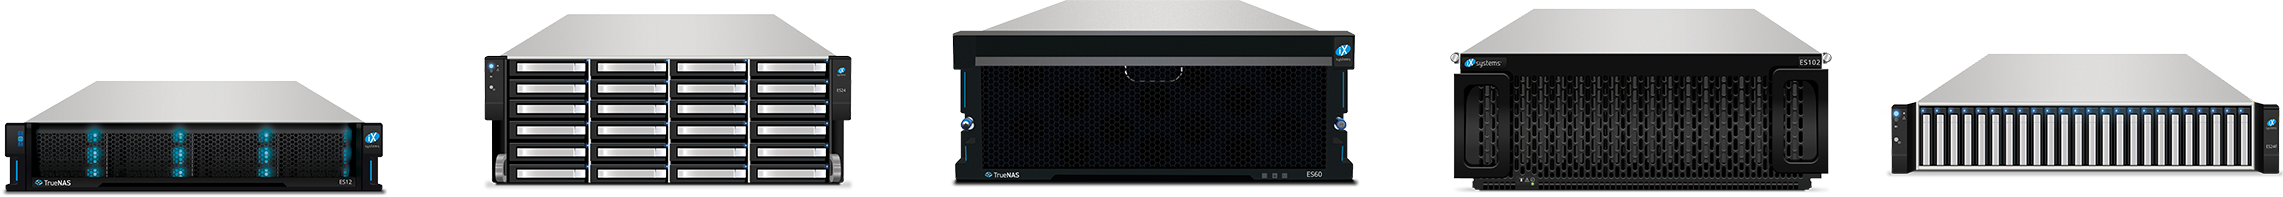
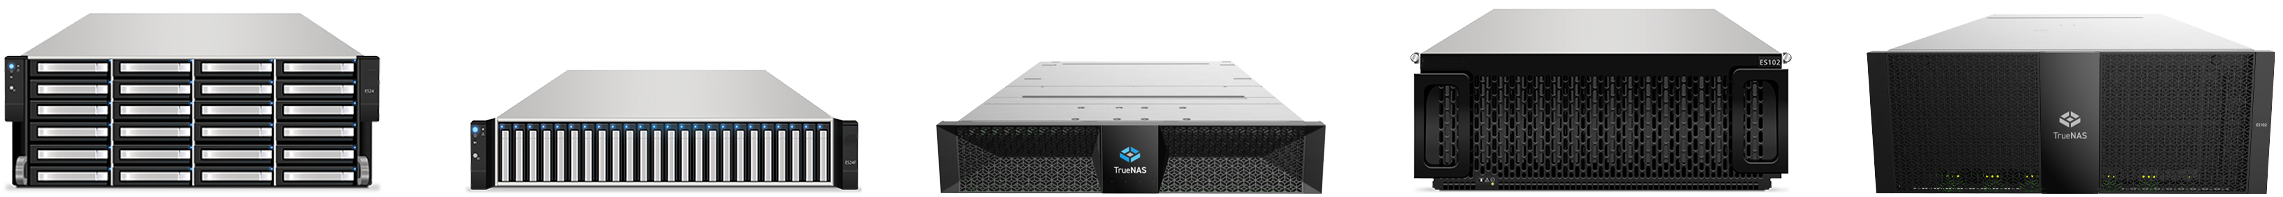
Hardware Section Updates (#3717)
* Update ExpansionShelves.md

* Update ExpansionShelvesFront.png

* Update ExpansionShelves.md

* Update ExpansionShelves.md

* image update

* Update RSeries.md

* Update _index.md

* Update words-to-ignore.txt

---------

diff --git a/content/Hardware/ExpansionShelves.md b/content/Hardware/ExpansionShelves.md
@@ -9,7 +9,7 @@ aliases:
  - /hardware/expansionshelves/es102bsg/
  - /hardware/expansionshelves/sasconnections/
  - /hardware/expansionshelves/
-description: "TrueNAS platform expansion shelves to customize your NAS data storage systems and scale out drive capacity from 12 to 102 drives."
+description: "TrueNAS platform expansion shelves to customize your NAS data storage systems and scale out drive capacity from 24 to 102 drives."
 keyword:
  - enterprise storage solution
  - scalable storage systems
@@ -21,29 +21,32 @@ keyword:
 <br>
 
 {{< prodintro banner="ExpansionShelves/ExpansionShelvesFront.png" bannerhover="Expansion Shelves"
-icon1="IconTrueNAS.png" cell1title="Wide Range of Capacity Options" cell1text="12 to 102 drive capacity. Multiple form factors."
+icon1="IconTrueNAS.png" cell1title="Wide Range of Capacity Options" cell1text="24 to 102 drive capacity. Multiple form factors."
 icon2="IconGraph.png" cell2title="Seamless Scaling" cell2text="Add storage to your datacenter without hassle or downtime."
 icon3="IconHA.png" cell3title="Dual Controller" cell3text="Highly available storage expansion."
 icon4="IconEnterprise.png" cell4title="Meets any Expansion Requirements" cell4text="Whether you need a few drives or hundreds, TrueNAS Enterprise products offer customizable solutions to fit any of your storage requirements." >}}
 
-## General Resources
+## ES24 Resources
 
 <div class="docs-sections">
 
 {{< imagecard image="/images/Hardware/ExpansionShelves/ES24BSG.png" title="ES24 Basic Setup Guide" link="https://www.truenas.com/docs/files/ES24BSG1.12.pdf"
 descr="Deployment guide for TrueNAS ES24 Expansion Shelf." >}}
 
+{{< imagecard image="/images/Hardware/ExpansionShelves/ES24Stencil.png" title="ES24 Hardware Stencils" link="https://www.truenas.com/docs/files/es24_stencil_pack.vssx"
+descr="Download ES24 Expansion Shelf stencils to diagram your TrueNAS hardware configuration." >}}
+
+</div>
+
+## ES24F Resources
+
+<div class="docs-sections">
+
 {{< imagecard image="/images/Hardware/ExpansionShelves/ES24FBSG.png" title="ES24F Basic Setup Guide" link="https://www.truenas.com/docs/files/ES24FBSG1.2.pdf"
 descr="Deployment guide for TrueNAS ES24F Expansion Shelf." >}}
 
-{{< imagecard image="/images/Hardware/ExpansionShelves/ES102BSG.png" title="ES102 Basic Setup Guide" link="https://www.truenas.com/docs/files/ES102BSG1.1.pdf"
-descr="Deployment guide for TrueNAS ES102 Expansion Shelf." >}}
-
-{{< imagecard image="/images/Hardware/ExpansionShelves/SASConnections.png" title="SAS Connections Guide" link="https://www.truenas.com/docs/files/SASConnections1.3.pdf"
-descr="Reference diagrams for SAS cabling between TrueNAS systems and Expansion Shelves." >}}
-
-{{< imagecard image="/images/Hardware/ExpansionShelves/ExpansionStencil.png" title="Hardware Stencils" link="https://www.truenas.com/docs/files/truenasesmodels.vssx"
-descr="Download ES12, ES24/F, ES60, and ES102 Expansion Shelf stencils to diagram your TrueNAS hardware configuration." >}}
+{{< imagecard image="/images/Hardware/ExpansionShelves/ES24FStencil.png" title="ES24F Hardware Stencils" link="https://www.truenas.com/docs/files/es24f_stencil_pack.vssx"
+descr="Download ES24F Expansion Shelf stencils to diagram your TrueNAS hardware configuration." >}}
 
 </div>
 
@@ -57,7 +60,7 @@ descr="Comprehensive User Manual for the TrueNAS ES24N." >}}
 {{< imagecard image="/images/Hardware/ExpansionShelves/ES24NConnection.png" title="Connect ES24N to TrueNAS F-Series" link="https://www.truenas.com/docs/files/ConnectES24NtoFSeries.pdf"
 descr="Guide for connecting the ES24N to a TrueNAS F-Series." >}}
 
-{{< imagecard image="/images/Hardware/ExpansionShelves/ES24NStencil.png" title="ES24N Hardware Stencils" link="https://www.truenas.com/docs/files/es24nstencil.vssx"
+{{< imagecard image="/images/Hardware/ExpansionShelves/ES24NStencil.png" title="ES24N Hardware Stencils" link="https://www.truenas.com/docs/files/es24n_stencil_pack.vssx"
 descr="Download ES24N Expansion Shelf stencils to diagram your TrueNAS hardware configuration." >}}
 
 </div>
@@ -69,8 +72,20 @@ descr="Download ES24N Expansion Shelf stencils to diagram your TrueNAS hardware 
 {{< imagecard image="/images/Hardware/ExpansionShelves/ES60Gen2PUM.png" title="ES60 Gen 2 User Manual" link="https://www.truenas.com/docs/files/ES60Gen2PUM.pdf"
 descr="Comprehensive User Manual for the TrueNAS ES60 Gen 2." >}}
 
-{{< imagecard image="/images/Hardware/ExpansionShelves/ES60Gen2Stencil.png" title="ES60 Gen 2 Hardware Stencils" link="https://www.truenas.com/docs/files/es60gen2stencil.vssx"
+{{< imagecard image="/images/Hardware/ExpansionShelves/ES60Gen2Stencil.png" title="ES60 Gen 2 Hardware Stencils" link="https://www.truenas.com/docs/files/es60_gen_2_stencil_pack.vssx"
 descr="Download ES60 Gen 2 Expansion Shelf stencils to diagram your TrueNAS hardware configuration." >}}
+
+</div>
+
+## ES102 Gen 1 Resources
+
+<div class="docs-sections">
+
+{{< imagecard image="/images/Hardware/ExpansionShelves/ES102BSG.png" title="ES102 Basic Setup Guide" link="https://www.truenas.com/docs/files/ES102BSG1.1.pdf"
+descr="Deployment guide for TrueNAS ES102 Expansion Shelf." >}}
+
+{{< imagecard image="/images/Hardware/ExpansionShelves/ES60Gen2Stencil.png" title="ES102 Gen 1 Hardware Stencils" link="https://www.truenas.com/docs/files/es102_gen1_stencil_pack.vssx"
+descr="Download ES102 Gen 1 Expansion Shelf stencils to diagram your TrueNAS hardware configuration." >}}
 
 </div>
 
@@ -81,7 +96,7 @@ descr="Download ES60 Gen 2 Expansion Shelf stencils to diagram your TrueNAS hard
 {{< imagecard image="/images/Hardware/ExpansionShelves/ES102Gen2PUM.png" title="ES102 Gen 2 User Manual" link="https://www.truenas.com/docs/files/ES102Gen2PUM.pdf"
 descr="Comprehensive User Manual for the TrueNAS ES102 Gen 2." >}}
 
-{{< imagecard image="/images/Hardware/ExpansionShelves/ES102Gen2Stencil.png" title="ES102 Gen 2 Hardware Stencils" link="https://www.truenas.com/docs/files/es102gen2stencil.vssx"
+{{< imagecard image="/images/Hardware/ExpansionShelves/ES102Gen2Stencil.png" title="ES102 Gen 2 Hardware Stencils" link="https://www.truenas.com/docs/files/es102_gen_2_stencil_pack.vssx"
 descr="Download ES102 Gen 2 Expansion Shelf stencils to diagram your TrueNAS hardware configuration." >}}
 
 </div>

diff --git a/content/Hardware/LegacyHardware/RSeries/_index.md b/content/Hardware/LegacyHardware/RSeries/_index.md
@@ -22,3 +22,9 @@ This document has an overview of the R10 and R40 chassis, racking instructions, 
 The R20A is an alternate form factor of the R20. This document has an overview of the R20A chassis, racking instructions, and drive tray instructions. Please refer to the [R-Series Resources]({{< ref "/Hardware/RSeries" >}}) for any other R-Series instructions.
 
 * <a href="https://www.truenas.com/docs/files/R20A1.1.pdf" download>TrueNAS R20A Basic Setup Guide</a>: Deployment Guide for the TrueNAS R20A.
+
+### TrueNAS R30
+
+* <a href="https://www.truenas.com/docs/files/R30BSG1.0.pdf" download>TrueNAS R30 Basic Setup Guide</a>: Deployment Guide for TrueNAS R30 systems.
+
+* <a href="https://www.truenas.com/docs/files/r30_stencil_pack.vssx" download>TrueNAS R30 Stencil Pack</a>: Download R30 stencils to diagram your TrueNAS hardware configuration.

diff --git a/content/Hardware/RSeries.md b/content/Hardware/RSeries.md
@@ -32,9 +32,6 @@ Visit the [R Series product page](https://www.truenas.com/r-series/) for more de
 {{< imagecard image="/images/Hardware/RSeries/R20PUM.png" title="R20 User Manual" link="https://www.truenas.com/docs/files/R20PUM.pdf"
 descr="User Manual for the TrueNAS R20." >}}
 
-{{< imagecard image="/images/Hardware/RSeries/R30BSG.png" title="R30 Basic Setup Guide" link="https://www.truenas.com/docs/files/R30BSG1.0.pdf"
-descr="Deployment Guide for TrueNAS R30 systems." >}}
-
 {{< imagecard image="/images/Hardware/RSeries/R50BMPUM.png" title="R50 User Manual" link="https://www.truenas.com/docs/files/R50PUM.pdf"
 descr="User Manual for the TrueNAS R50." >}}
 
